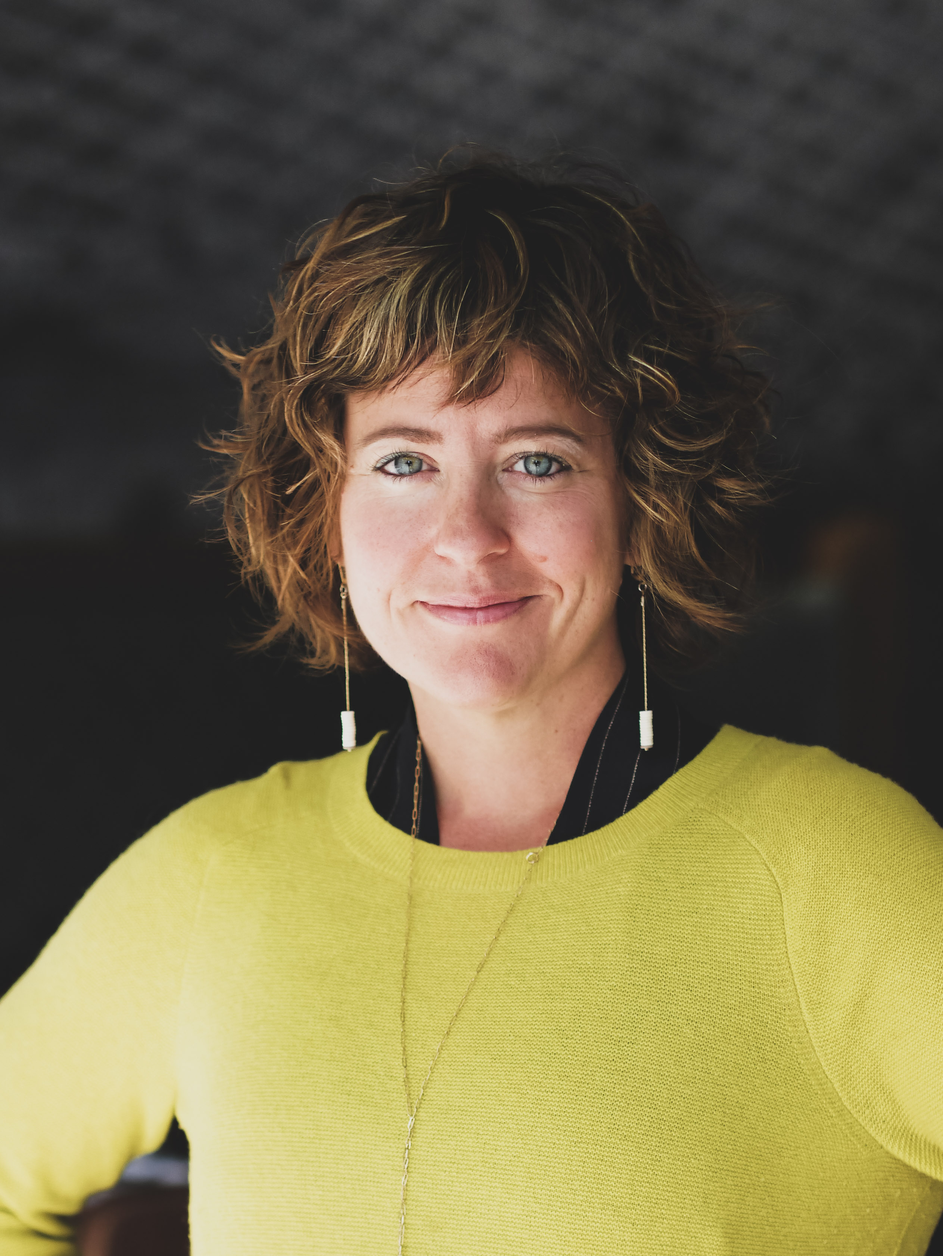
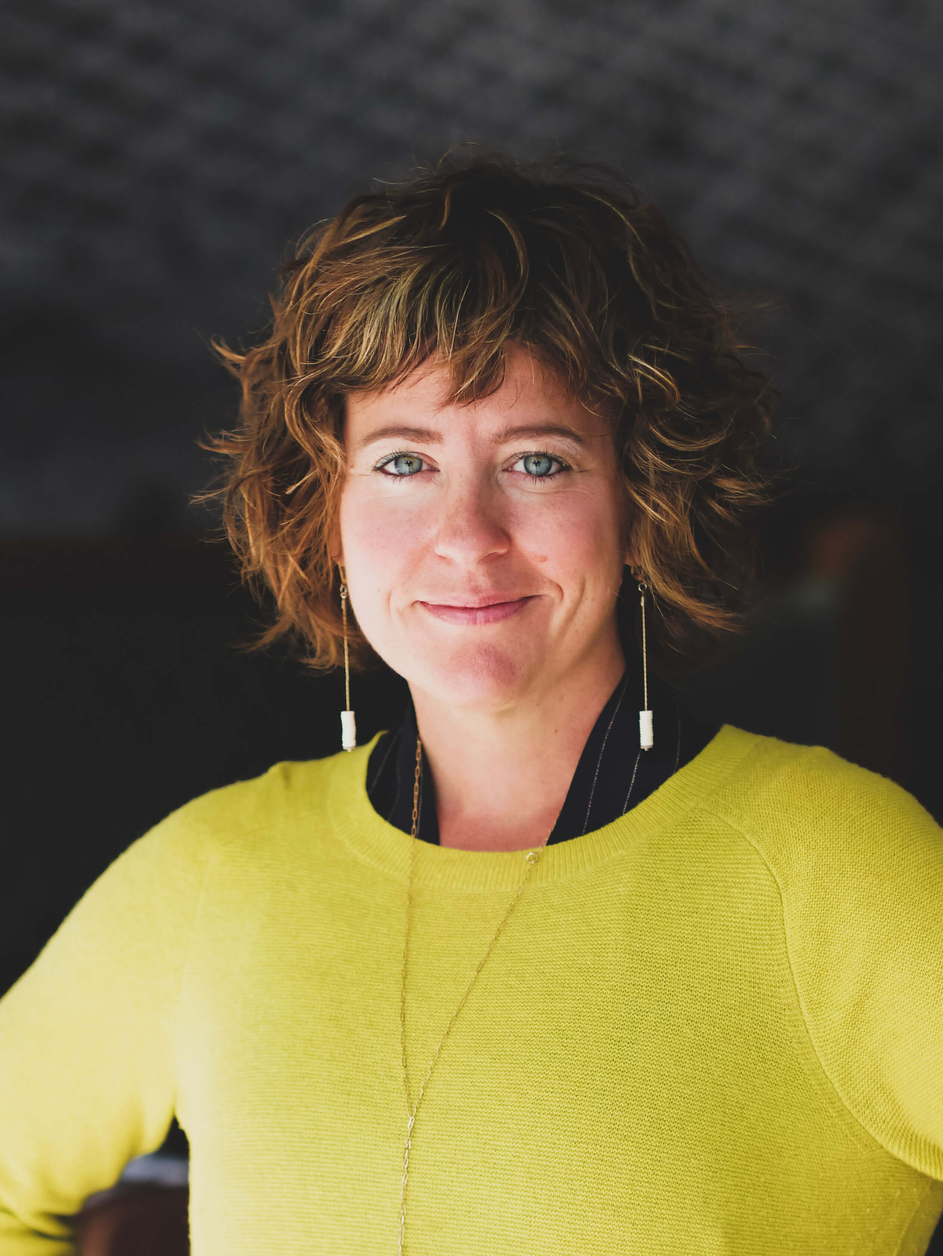
opt image

diff --git a/index.html b/index.html
@@ -63,7 +63,7 @@ o  | |                     /                               |  o                 
 	<script src="https://kit.fontawesome.com/2b2dda5370.js" crossorigin="anonymous"></script>
 
 	<!-- Styles -->
-	<link rel='stylesheet' href='assets/css/split.css?v=2' type='text/css' media='screen' />
+	<link rel='stylesheet' href='assets/css/split.css?v=3' type='text/css' media='screen' />
 	<meta name="viewport" content="width=device-width,initial-scale=1" />
 
 </head>

diff --git a/assets/css/split.css b/assets/css/split.css
@@ -135,7 +135,7 @@ body.page-template-page-fullsingle-split {
   .fs-split .split-image {
     width: 48%;
     height: 100vh;
-    background-image: url("../../images/jewel-crop-color.jpg");
+    background-image: url("../../images/jewel-crop-color-sm.jpg");
     background-position: center center;
     background-size: cover; }
     @media (max-width: 800px) {
